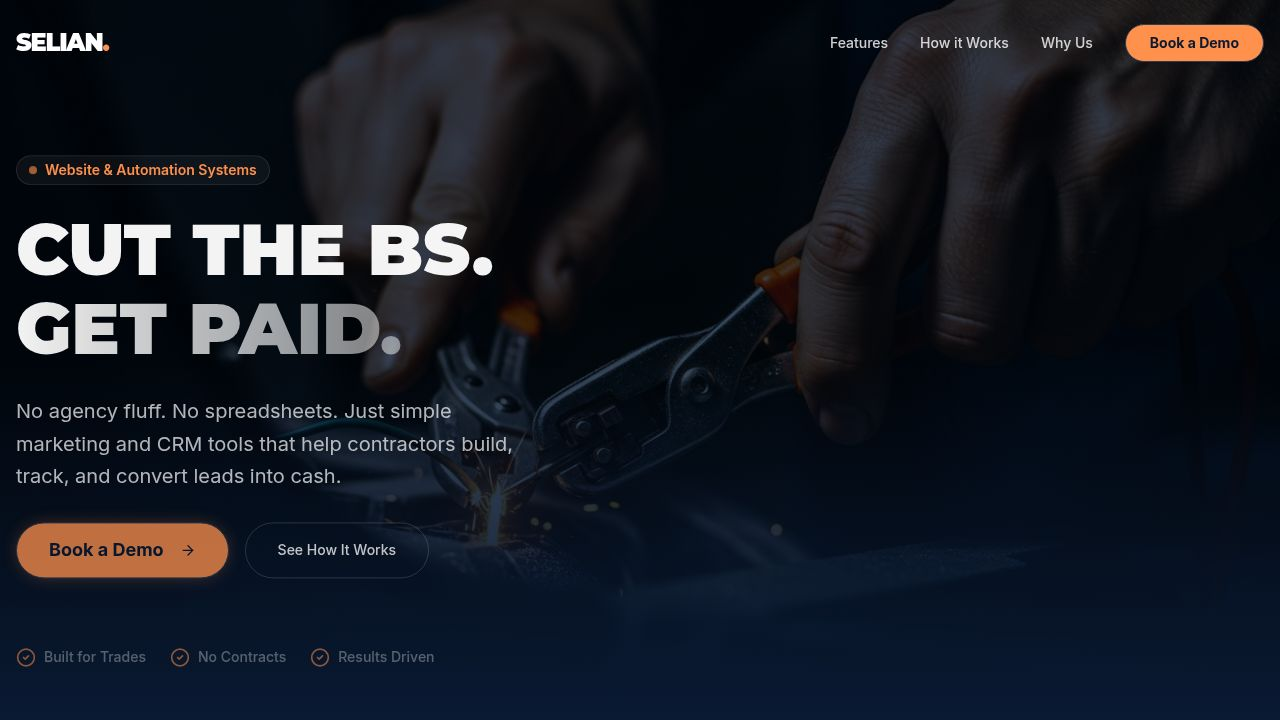
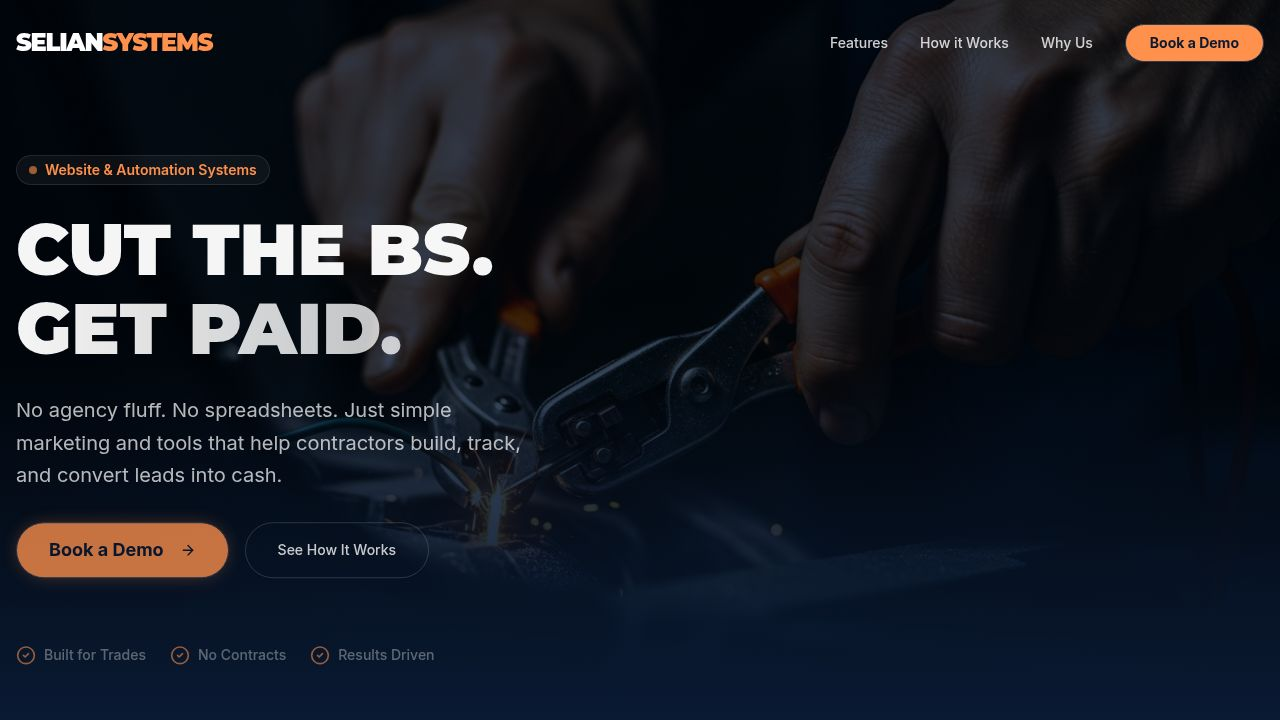
Style text messages and add a marketing campaign message
Update the missed call text-back feature to use SMS bubble styling and add a marketing campaign text exchange above the campaign metrics.

Replit-Commit-Author: Agent
Replit-Commit-Session-Id: 443abac6-5eca-43b3-90ee-1bedfc62067d
Replit-Commit-Checkpoint-Type: full_checkpoint
Replit-Commit-Event-Id: 8cce65c8-b28c-4150-9aae-98bfeb0bdc60
Replit-Commit-Screenshot-Url: https://storage.googleapis.com/screenshot-production-us-central1/a743e3dd-48ac-4cd8-ba5e-32e184ce31f6/443abac6-5eca-43b3-90ee-1bedfc62067d/kaFtZ0h
Replit-Helium-Checkpoint-Created: true

diff --git a/client/src/components/sections/Features.tsx b/client/src/components/sections/Features.tsx
@@ -49,12 +49,35 @@ const features = [
     icon: MessageSquare,
     image: null,
     customVisual: (
-      <div className="w-full h-full bg-card border border-white/10 rounded-2xl p-6 relative overflow-hidden flex flex-col justify-center">
-        <div className="bg-background/50 backdrop-blur rounded-xl p-4 max-w-[80%] mb-4 self-start border border-white/5">
-          <p className="text-sm text-white/80">Hey! I saw you called but I'm on a job. How can I help?</p>
+      <div className="w-full h-full bg-gradient-to-b from-gray-900 to-gray-800 rounded-3xl p-6 relative overflow-hidden flex flex-col justify-end shadow-2xl border border-gray-700">
+        {/* Phone frame */}
+        <div className="absolute top-0 left-1/2 transform -translate-x-1/2 bg-gray-900 h-8 w-2/3 rounded-b-3xl border-x border-b border-gray-700" />
+        
+        {/* Messages */}
+        <div className="space-y-3 pb-4">
+          {/* Received message */}
+          <div className="flex justify-start">
+            <div className="bg-gray-700 text-white rounded-2xl rounded-tl-md px-4 py-3 max-w-[85%] shadow-lg">
+              <p className="text-sm">Hey! I saw you called but I'm on a job. How can I help?</p>
+              <p className="text-xs text-gray-300 mt-1">2:34 PM</p>
+            </div>
+          </div>
+          
+          {/* Sent message */}
+          <div className="flex justify-end">
+            <div className="bg-blue-500 text-white rounded-2xl rounded-tr-md px-4 py-3 max-w-[85%] shadow-lg">
+              <p className="text-sm font-medium">I need a quote for a panel upgrade.</p>
+              <p className="text-xs text-blue-100 mt-1">2:36 PM</p>
+            </div>
+          </div>
         </div>
-        <div className="bg-primary text-background rounded-xl p-4 max-w-[80%] self-end">
-          <p className="text-sm font-bold">I need a quote for a panel upgrade.</p>
+        
+        {/* Input field */}
+        <div className="flex gap-2 items-end">
+          <input type="text" placeholder="Message..." className="flex-1 bg-gray-700 text-white rounded-2xl px-4 py-2 text-sm placeholder-gray-400 outline-none" disabled />
+          <div className="bg-blue-500 text-white rounded-full p-2 cursor-default">
+            <svg className="w-5 h-5" fill="currentColor" viewBox="0 0 24 24"><path d="M16.6915026,12.4744748 L3.50612381,13.2599618 C3.19218622,13.2599618 3.03521743,13.4170592 3.03521743,13.5741566 L1.15159189,20.0151496 C0.8376543,20.8006365 0.99,21.89 1.77946707,22.52 C2.41,22.99 3.50612381,23.1 4.13399899,22.8429026 L21.714504,14.0454487 C22.6563168,13.5741566 23.1272231,12.6315722 22.6563168,11.6889879 L4.13399899,1.16346272 C3.34915502,0.9 2.40734225,1.00636533 1.77946707,1.4776575 C0.994623095,2.10604706 0.837654326,3.0486314 1.15159189,3.99021575 L3.03521743,10.4311088 C3.03521743,10.5882061 3.19218622,10.7453035 3.50612381,10.7453035 L16.6915026,11.5307904 C16.6915026,11.5307904 17.1624089,11.5307904 17.1624089,12.0020826 C17.1624089,12.4744748 16.6915026,12.4744748 16.6915026,12.4744748 Z" /></svg>
+          </div>
         </div>
       </div>
     ),
@@ -67,18 +90,38 @@ const features = [
     icon: Repeat,
     image: null,
     customVisual: (
-      <div className="w-full h-full bg-gradient-to-br from-blue-900/20 to-background border border-white/10 rounded-2xl p-8 flex items-center justify-center">
-        <div className="grid grid-cols-2 gap-4 w-full max-w-sm">
-          <div className="bg-card p-4 rounded-lg border border-white/10 text-center hover:border-primary/50 transition-colors">
-            <div className="text-2xl font-bold text-white mb-1">24%</div>
-            <div className="text-xs text-white/50">Open Rate</div>
+      <div className="w-full h-full space-y-6">
+        {/* Sample text message above campaigns */}
+        <div className="bg-gradient-to-b from-gray-900 to-gray-800 rounded-3xl p-4 relative overflow-hidden shadow-xl border border-gray-700">
+          <div className="absolute top-0 left-1/2 transform -translate-x-1/2 bg-gray-900 h-6 w-2/3 rounded-b-2xl border-x border-b border-gray-700" />
+          <div className="space-y-2 mt-4">
+            <div className="flex justify-end">
+              <div className="bg-blue-500 text-white rounded-2xl rounded-tr-md px-3 py-2 max-w-[80%] text-sm">
+                Hey! Special offer: 20% off this month!
+              </div>
+            </div>
+            <div className="flex justify-start">
+              <div className="bg-gray-700 text-white rounded-2xl rounded-tl-md px-3 py-2 max-w-[80%] text-sm">
+                Thanks! I'm interested 👍
+              </div>
+            </div>
           </div>
-          <div className="bg-card p-4 rounded-lg border border-white/10 text-center hover:border-primary/50 transition-colors">
-            <div className="text-2xl font-bold text-primary mb-1">12</div>
-            <div className="text-xs text-white/50">New Jobs</div>
-          </div>
-          <div className="col-span-2 bg-primary hover:bg-primary/90 transition-colors p-4 rounded-lg flex items-center justify-center cursor-pointer">
-            <span className="font-bold text-background">Launch Campaign</span>
+        </div>
+
+        {/* Campaign stats */}
+        <div className="bg-gradient-to-br from-blue-900/20 to-background border border-white/10 rounded-2xl p-6 flex items-center justify-center">
+          <div className="grid grid-cols-2 gap-3 w-full">
+            <div className="bg-card p-4 rounded-lg border border-white/10 text-center hover:border-primary/50 transition-colors">
+              <div className="text-2xl font-bold text-white mb-1">24%</div>
+              <div className="text-xs text-white/50">Open Rate</div>
+            </div>
+            <div className="bg-card p-4 rounded-lg border border-white/10 text-center hover:border-primary/50 transition-colors">
+              <div className="text-2xl font-bold text-primary mb-1">12</div>
+              <div className="text-xs text-white/50">New Jobs</div>
+            </div>
+            <div className="col-span-2 bg-primary hover:bg-primary/90 transition-colors p-3 rounded-lg flex items-center justify-center cursor-pointer">
+              <span className="font-bold text-background text-sm">Launch Campaign</span>
+            </div>
           </div>
         </div>
       </div>
@@ -105,8 +148,7 @@ export function Features() {
             <span className="text-primary">Serious Results.</span>
           </h2>
           <p className="text-white/60 text-lg">
-            No spreadsheets. No fancy dashboards you'll never look at. 
-            Just tools built for people who fix things, not sit in meetings.
+            Tools built for people who fix things, not sit in meetings.
           </p>
         </div>
 

diff --git a/client/src/components/sections/Hero.tsx b/client/src/components/sections/Hero.tsx
@@ -7,39 +7,47 @@ export function Hero() {
     <section className="relative min-h-screen flex items-center pt-20 overflow-hidden">
       {/* Background Image with Overlay */}
       <div className="absolute inset-0 z-0">
-        <img 
-          src={heroBg} 
-          alt="Contractor working" 
+        <img
+          src={heroBg}
+          alt="Contractor working"
           className="w-full h-full object-cover"
         />
         <div className="absolute inset-0 bg-background/90 md:bg-background/80 mix-blend-multiply" />
         <div className="absolute inset-0 bg-gradient-to-t from-background via-transparent to-transparent" />
       </div>
 
-      <div className="container mx-auto px-4 relative z-10 grid md:grid-cols-2 gap-12 items-center">
-        <div className="max-w-2xl">
+      <div className="container mx-auto px-4 relative z-10 grid gap-12 items-center">
+        <div className="max-w-4xl">
           <div className="inline-flex items-center gap-2 px-3 py-1 rounded-full bg-white/5 border border-white/10 text-primary text-sm font-semibold mb-6 animate-in fade-in slide-in-from-bottom-4 duration-700">
             <span className="w-2 h-2 rounded-full bg-primary animate-pulse" />
             Website & Automation Systems
           </div>
-          
-          <h1 className="text-4xl md:text-6xl lg:text-7xl font-display font-black text-white leading-[1.1] mb-6 animate-in fade-in slide-in-from-bottom-6 duration-700 delay-100">
-            CUT THE BS. <br />
-            <span className="text-transparent bg-clip-text bg-gradient-to-r from-white to-white/50">
+
+          <h1 className="text-4xl md:text-6xl lg:text-7xl max-w-4xl font-display font-black text-white leading-[1.1] mb-6 animate-in fade-in slide-in-from-bottom-6 duration-700 delay-100">
+            CUT THE BS.
+            <span className="block text-transparent bg-clip-text bg-gradient-to-r from-white to-white/50">
               GET PAID.
             </span>
           </h1>
-          
+
           <p className="text-lg md:text-xl text-white/80 mb-8 max-w-lg leading-relaxed animate-in fade-in slide-in-from-bottom-8 duration-700 delay-200">
-            No agency fluff. No spreadsheets. Just simple marketing and CRM tools that help contractors build, track, and convert leads into cash.
+            No agency fluff. No spreadsheets. Just simple marketing and tools that help contractors build, track, and convert leads into
+            cash.
           </p>
-          
+
           <div className="flex flex-col sm:flex-row gap-4 mb-12 animate-in fade-in slide-in-from-bottom-10 duration-700 delay-300">
-            <Button size="lg" className="bg-primary hover:bg-primary/90 text-background font-bold text-lg h-14 px-8 rounded-full shadow-[0_0_20px_-5px_rgba(255,145,77,0.5)]">
+            <Button
+              size="lg"
+              className="bg-primary hover:bg-primary/90 text-background font-bold text-lg h-14 px-8 rounded-full shadow-[0_0_20px_-5px_rgba(255,145,77,0.5)]"
+            >
               Book a Demo
               <ArrowRight className="ml-2 h-5 w-5" />
             </Button>
-            <Button size="lg" variant="outline" className="border-white/20 text-white hover:bg-white/10 h-14 px-8 rounded-full">
+            <Button
+              size="lg"
+              variant="outline"
+              className="border-white/20 text-white hover:bg-white/10 h-14 px-8 rounded-full"
+            >
               See How It Works
             </Button>
           </div>

diff --git a/client/src/components/layout/Navbar.tsx b/client/src/components/layout/Navbar.tsx
@@ -23,7 +23,7 @@ export function Navbar() {
     >
       <div className="container mx-auto px-4 flex items-center justify-between">
         <Link href="/" className="text-2xl font-display font-black tracking-tighter text-white cursor-pointer decoration-none">
-          SELIAN<span className="text-primary">.</span>
+          SELIAN<span className="text-primary">SYSTEMS</span>
         </Link>
 
         {/* Desktop Nav */}
